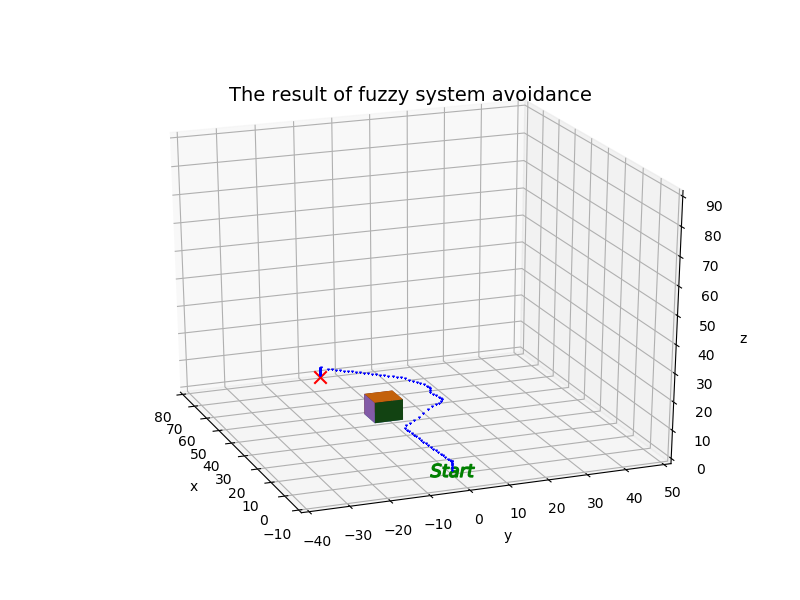
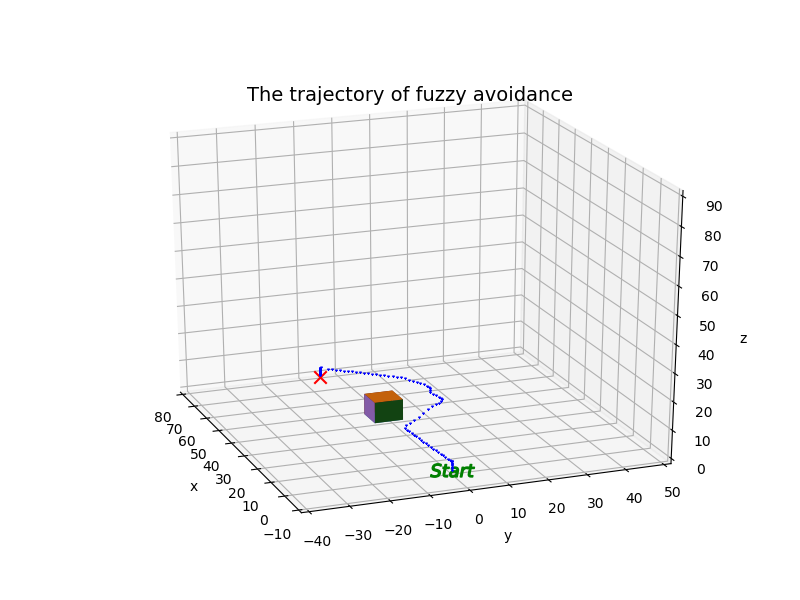
Update README.md

Changed region(s): [[0.2812, 0.15, 0.75, 0.18]]

diff --git a/airsim/ForAirSim_version7/plot_path_A.py b/airsim/ForAirSim_version7/plot_path_A.py
@@ -91,7 +91,7 @@ if __name__ == '__main__':
     ax1.set_zlim(0, 90) 
     ax1.view_init(azim=159, elev=23 )
     ax1.dist = 9 # zoom in/out
-    plt.title('The result of fuzzy system avoidance', fontsize = 14)
+    plt.title('The trajectory of fuzzy avoidance', fontsize = 14)
     for i in range(len(wp)):
         ax1.scatter(wp[i,0], wp[i,1], -1*wp[i,2],c='b', marker="2", s=2)                                           
         plt.pause(0.0001)  
@@ -100,7 +100,11 @@ if __name__ == '__main__':
     for i in range(50):
         ax1.view_init(azim=159+i, elev=23 )
         plt.pause(0.0001)
-        plt.savefig(data_dir+'/'+str(len(wp))+str(i)+'.png')
+        plt.savefig(data_dir+'/'+str(len(wp)+1+i)+'.png')
+    for i in range(40):
+        ax1.view_init(azim=159+50, elev=38+i)
+        plt.pause(0.0001)
+        plt.savefig(data_dir+'/'+str(len(wp)+159+50+20+i)+'.png')
     print('OK')
     plt.ioff()
     plt.show()

diff --git a/airsim/ForAirSim_version7/gif.py b/airsim/ForAirSim_version7/gif.py
@@ -2,13 +2,13 @@
 import os
 import imageio
 
-dirName1 = 'Data_B/'
+dirName1 = 'Data_A/'
 
 dirs = os.listdir(dirName1) #--- change dirName 1 ,2
 dirs.sort(key=lambda x:int(x[:-4]))
 frames = []
 
-gif_name1 = 'Data_gif_B.gif'
+gif_name1 = 'Data_gif_A.gif'
 
 for file in dirs:    
     frames.append(imageio.imread(dirName1 + file)) #-- change dirName 1,2

diff --git a/airsim/ForAirSim_version7/README.md b/airsim/ForAirSim_version7/README.md
@@ -2,3 +2,5 @@
 - [x] In AirSim simulator, use the fuzzy rule to control the drone.
 
 ![image](https://github.com/LiaoSteve/Drone-GCS-and-AI/blob/django_app/airsim/ForAirSim_version7/Data_gif_A.gif)
+![image](https://github.com/LiaoSteve/Drone-GCS-and-AI/blob/django_app/airsim/ForAirSim_version7/Data_gif_B.gif)
+![image](https://github.com/LiaoSteve/Drone-GCS-and-AI/blob/django_app/airsim/ForAirSim_version7/Data_gif_F.gif)
